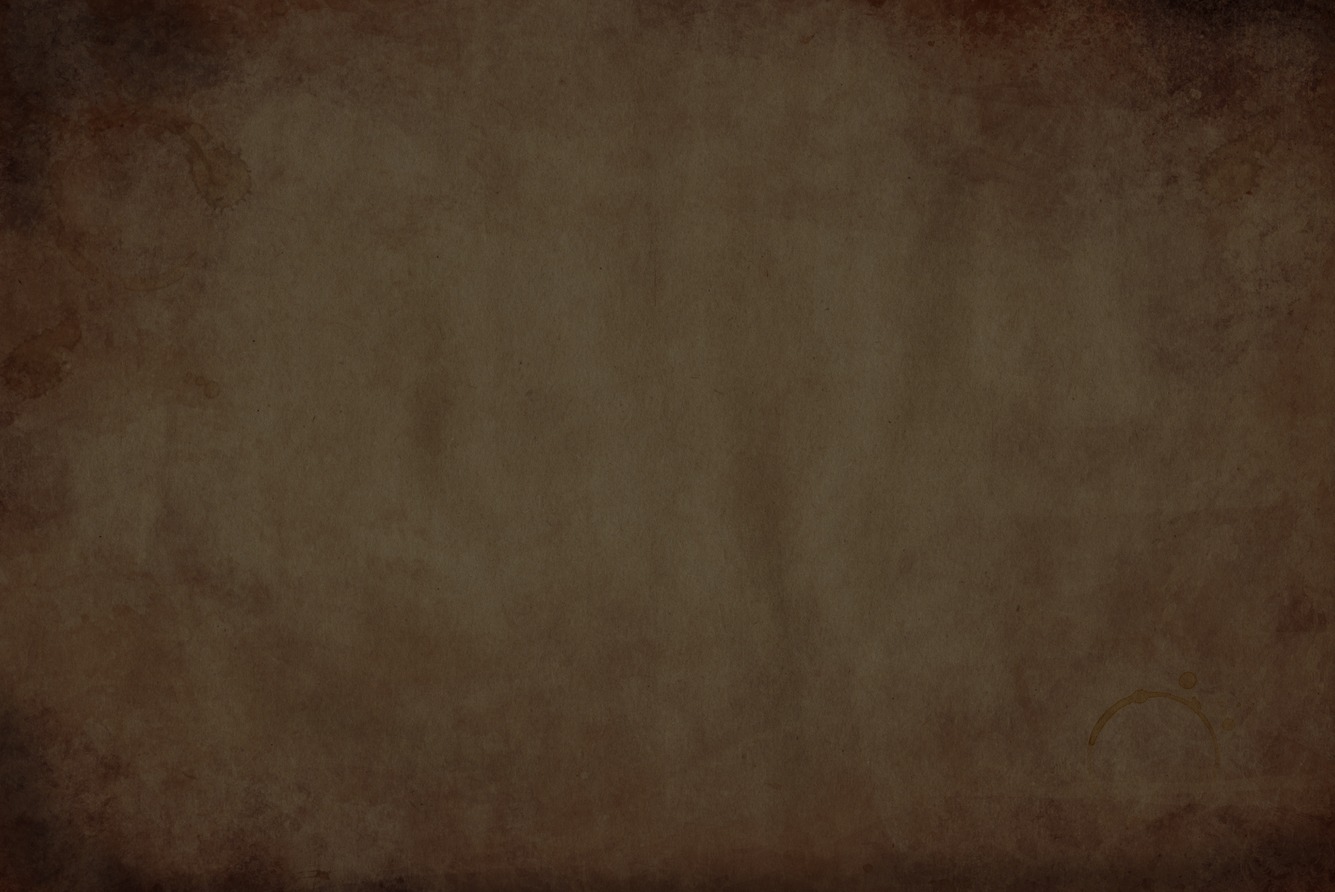
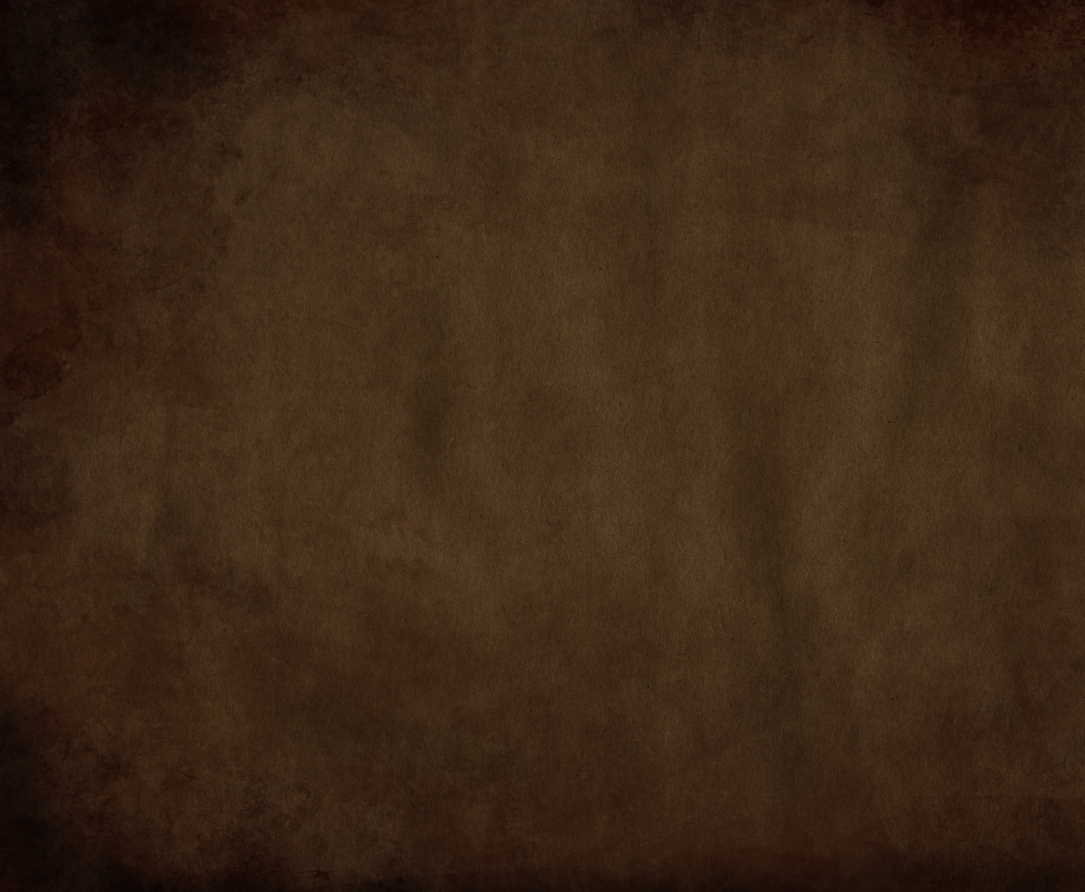
background updated

diff --git a/styles/theme.ts b/styles/theme.ts
@@ -34,7 +34,7 @@ const theme = extendTheme({
           display: "none",
         },
         backgroundColor: "#231a13",
-        backgroundImage: "url('/backgroundTwo.jpg')",
+        backgroundImage: "url('/background.jpg')",
         backgroundPosition: "bottom",
         backgroundSize: "cover",
       },
